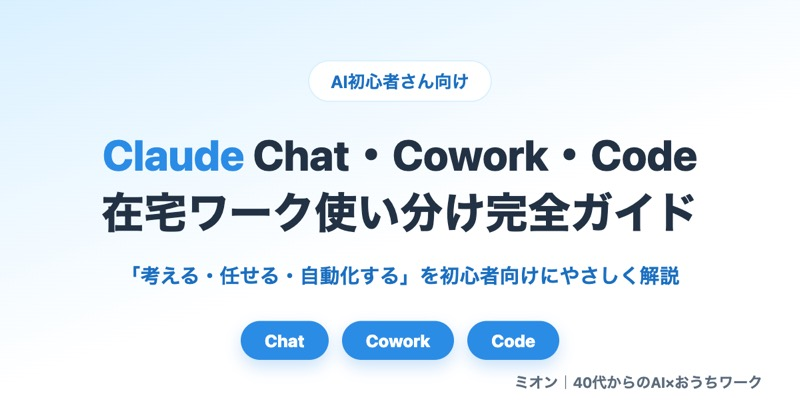
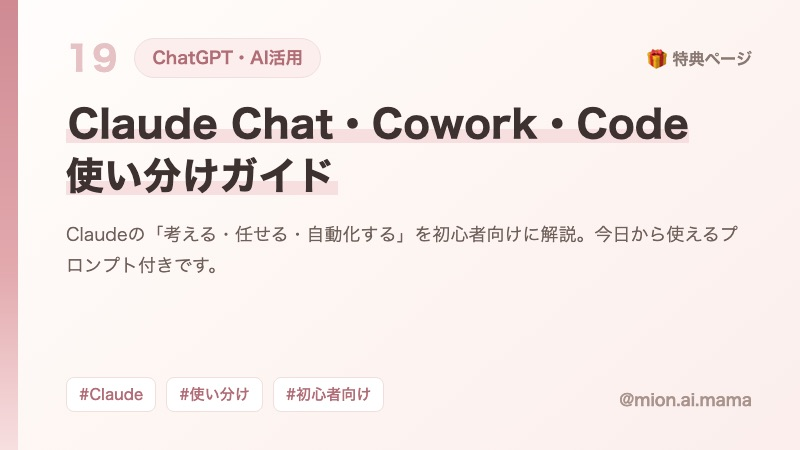
19番（Claude使い分けガイド）のサムネイルをピンク基調に変更
元ページのOGPがClaudeブランドのブルーで、他25枚の大人ピンク×アイボリーから
浮いていたため、タイトルからの自動生成に切り替えた。

02番（手相診断）の濃紺のアイキャッチは、ユーザー判断によりそのまま残す。

diff --git a/js/presents.js b/js/presents.js
@@ -119,6 +119,8 @@ const PRESENTS = [
   },
   {
     id: "claude-chat-cowork-code-guide",
+    // 元ページのOGPがClaudeブランドのブルーで、一覧の配色から浮くため自動生成にする
+    thumbAuto: true,
     number: "19",
     type: "page",
     category: "ChatGPT・AI活用",
